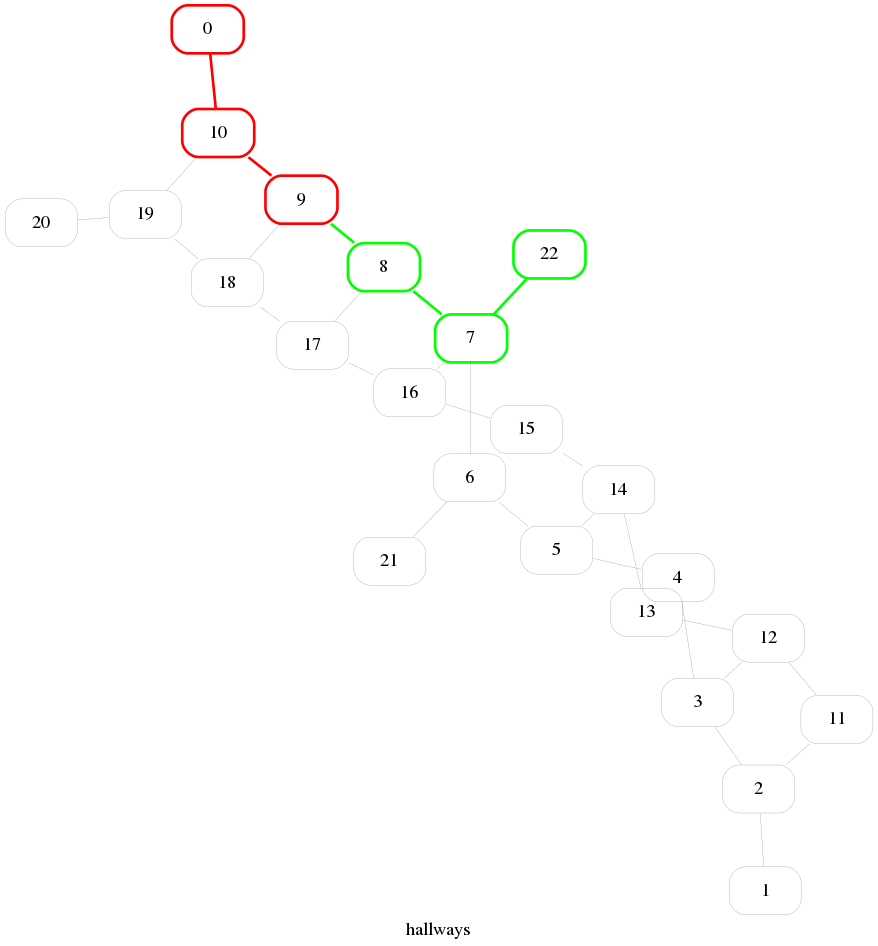
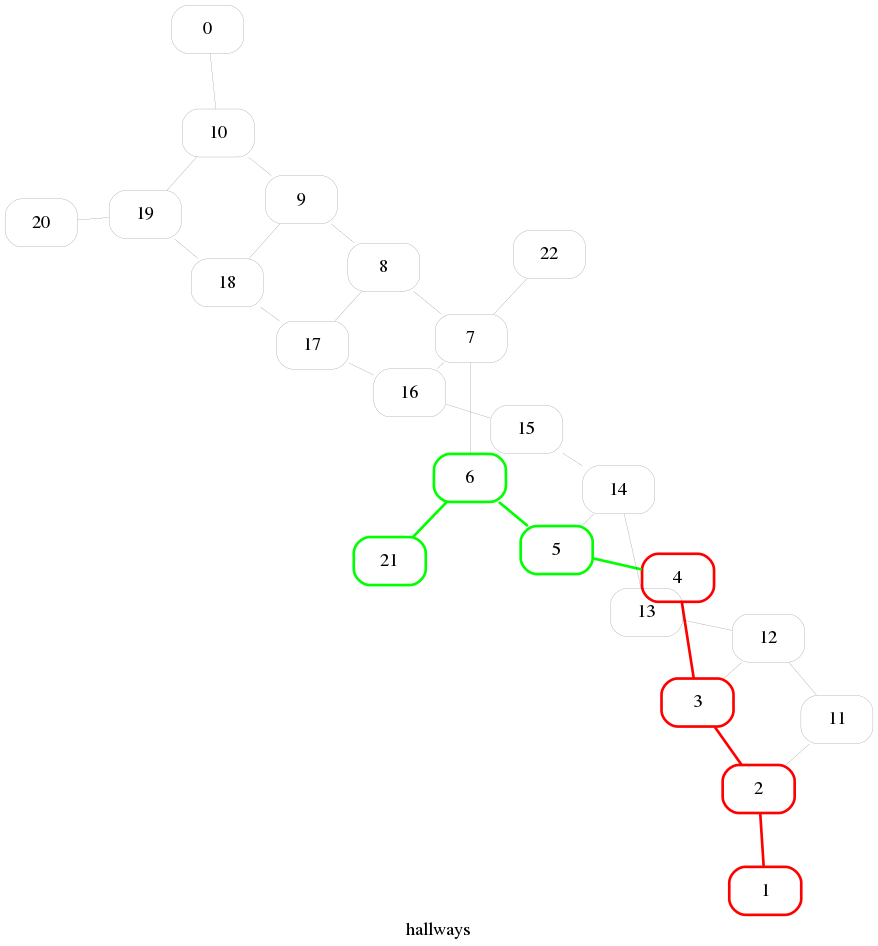
search most than one target

diff --git a/src/supermarket.py b/src/supermarket.py
@@ -37,7 +37,7 @@ def main():
     G.write(graphName)
     G.draw(graphName, bestPath, bestPathToCash)
 
-def superMarketRoute(target, hallwaysName, hallwaysGraphName, sourcesTocash):
+def superMarketRoute(targets, hallwaysName, hallwaysGraphName, sourcesTocash):
     basePath = os.path.abspath(os.path.join(__file__, '..', '..', 'files'))
     hallwaysPathName = basePath + '/' + hallwaysName + '.json'
     hallwaysGraphPathName = basePath + '/' + hallwaysGraphName + '.json'
@@ -50,13 +50,19 @@ def superMarketRoute(target, hallwaysName, hallwaysGraphName, sourcesTocash):
 
     # find the path by metaheuristic method (GRASP)
     sources = [0, 1] # doors
-
-    grasp = Grasp(sources, G)
-    bestPath = grasp.bestPathTo(target)[1]
-    bestCost = grasp.bestPathTo(target)[0]
+    bestPath = []
+    bestCost = 0
+    for target in targets:
+        grasp = Grasp(sources, G)
+        bestPathPartial = grasp.bestPathTo(target)[1]
+        bestCostPartial = grasp.bestPathTo(target)[0]
+        for node in reversed(bestPathPartial):
+            if int(node) not in bestPath:
+                bestPath.append(int(node))
+        bestCost += bestCostPartial
+        sources = [target]
     print("the best path to go " + str(target) + " is " +
-          str(bestPath) + ". The cost is : " + str(bestCost))
-    
+        str(bestPath) + ". The cost is : " + str(bestCost))
     targetToCash = int(target)
     graspToCash = Grasp(sourcesTocash, G)
     bestPathToCash = graspToCash.bestPathTo(targetToCash)[1]

diff --git a/src/main.py b/src/main.py
@@ -11,15 +11,15 @@ def hello_world():
 
 @app.route('/superRoute')
 def superRoute():
-    target = request.args.get('target')
-    name = request.args.get('name')
+    targets = map(int, request.args.get('target').split(","))
+    name = request.args.get('superName')
     graphName = name + 'Graph'
-    sourcesTocash = []
+    sourcesToCash = []
     if name == 'hallways':
-        sourcesTocash = [21, 22] # cashbox
+        sourcesToCash = [21, 22] # cashbox
     if name == 'hallwaysSuperX':
-        sourcesTocash = [5, 6] # cashbox
-    superMarketRoute(int(target), name, graphName, sourcesTocash)
+        sourcesToCash = [5, 6] # cashbox
+    superMarketRoute(targets, name, graphName, sourcesToCash)
     basePath = os.path.abspath(os.path.join(__file__, '..', '..', 'output'))
     return send_file(basePath + '/' + name + '.png', mimetype='image/png')
 

diff --git a/readme.md b/readme.md
@@ -45,10 +45,11 @@ Get image of hallwaysSuper
 http://localhost:5000/hallwaysSuper/hallways
 ```
 Get superRoute
-    - target : point to visit
+    - target : points to visit (separate by colon ',')
     - name : image name
 ```
-http://localhost:5000/superRoute?target=3&name=supermarket
+http://localhost:5000/superRoute?target=3,4&superName=hallways
+http://localhost:5000/superRoute?target=19,20,21&superName=hallwaysSuperX
 ```
 
 
